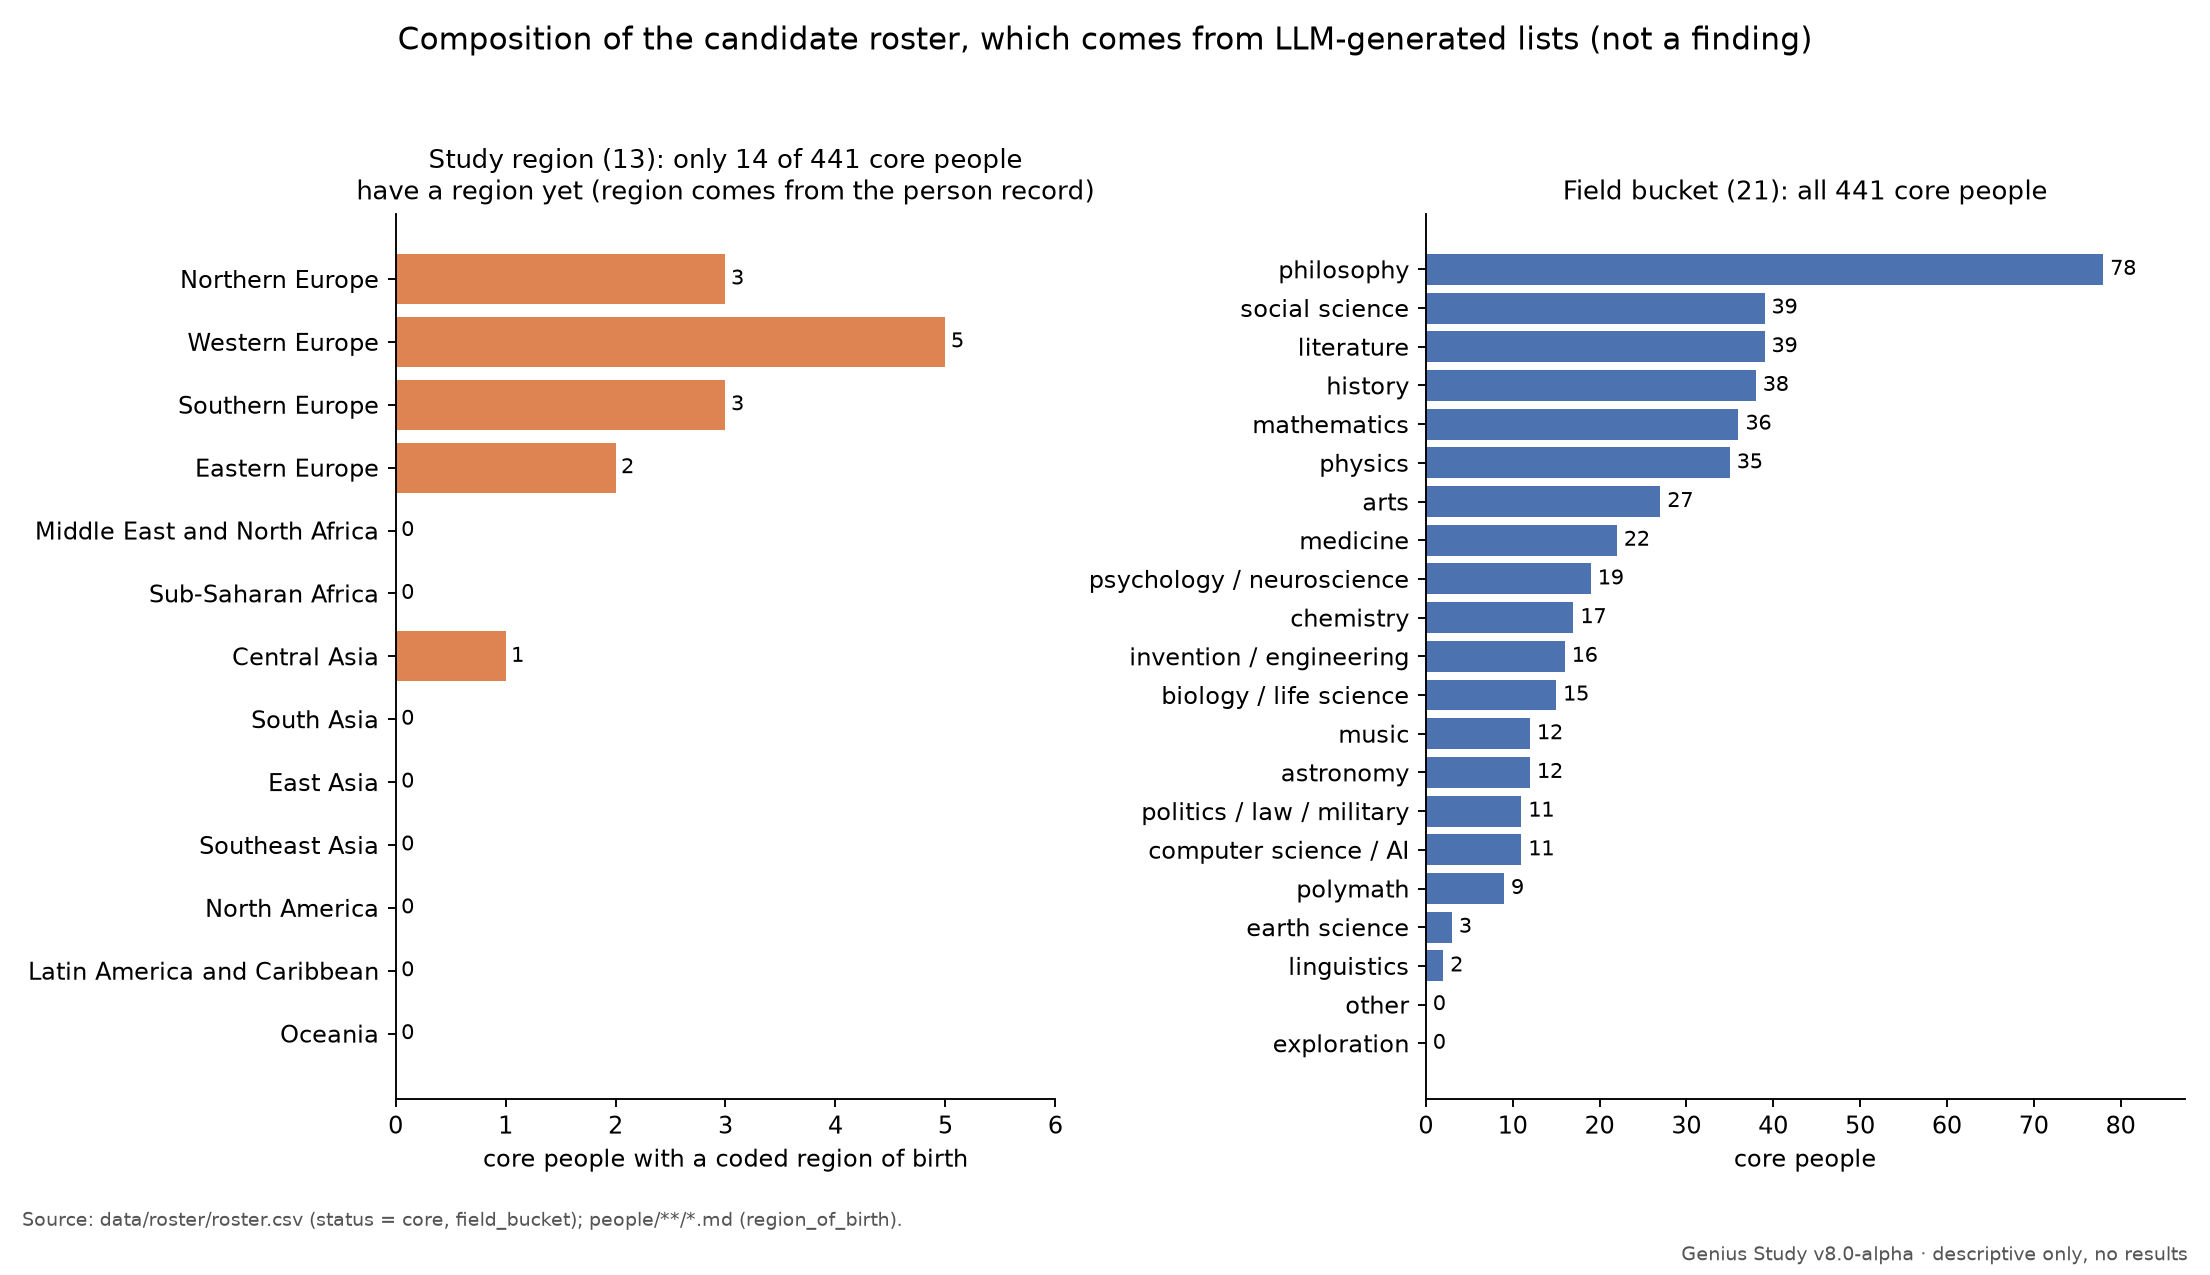
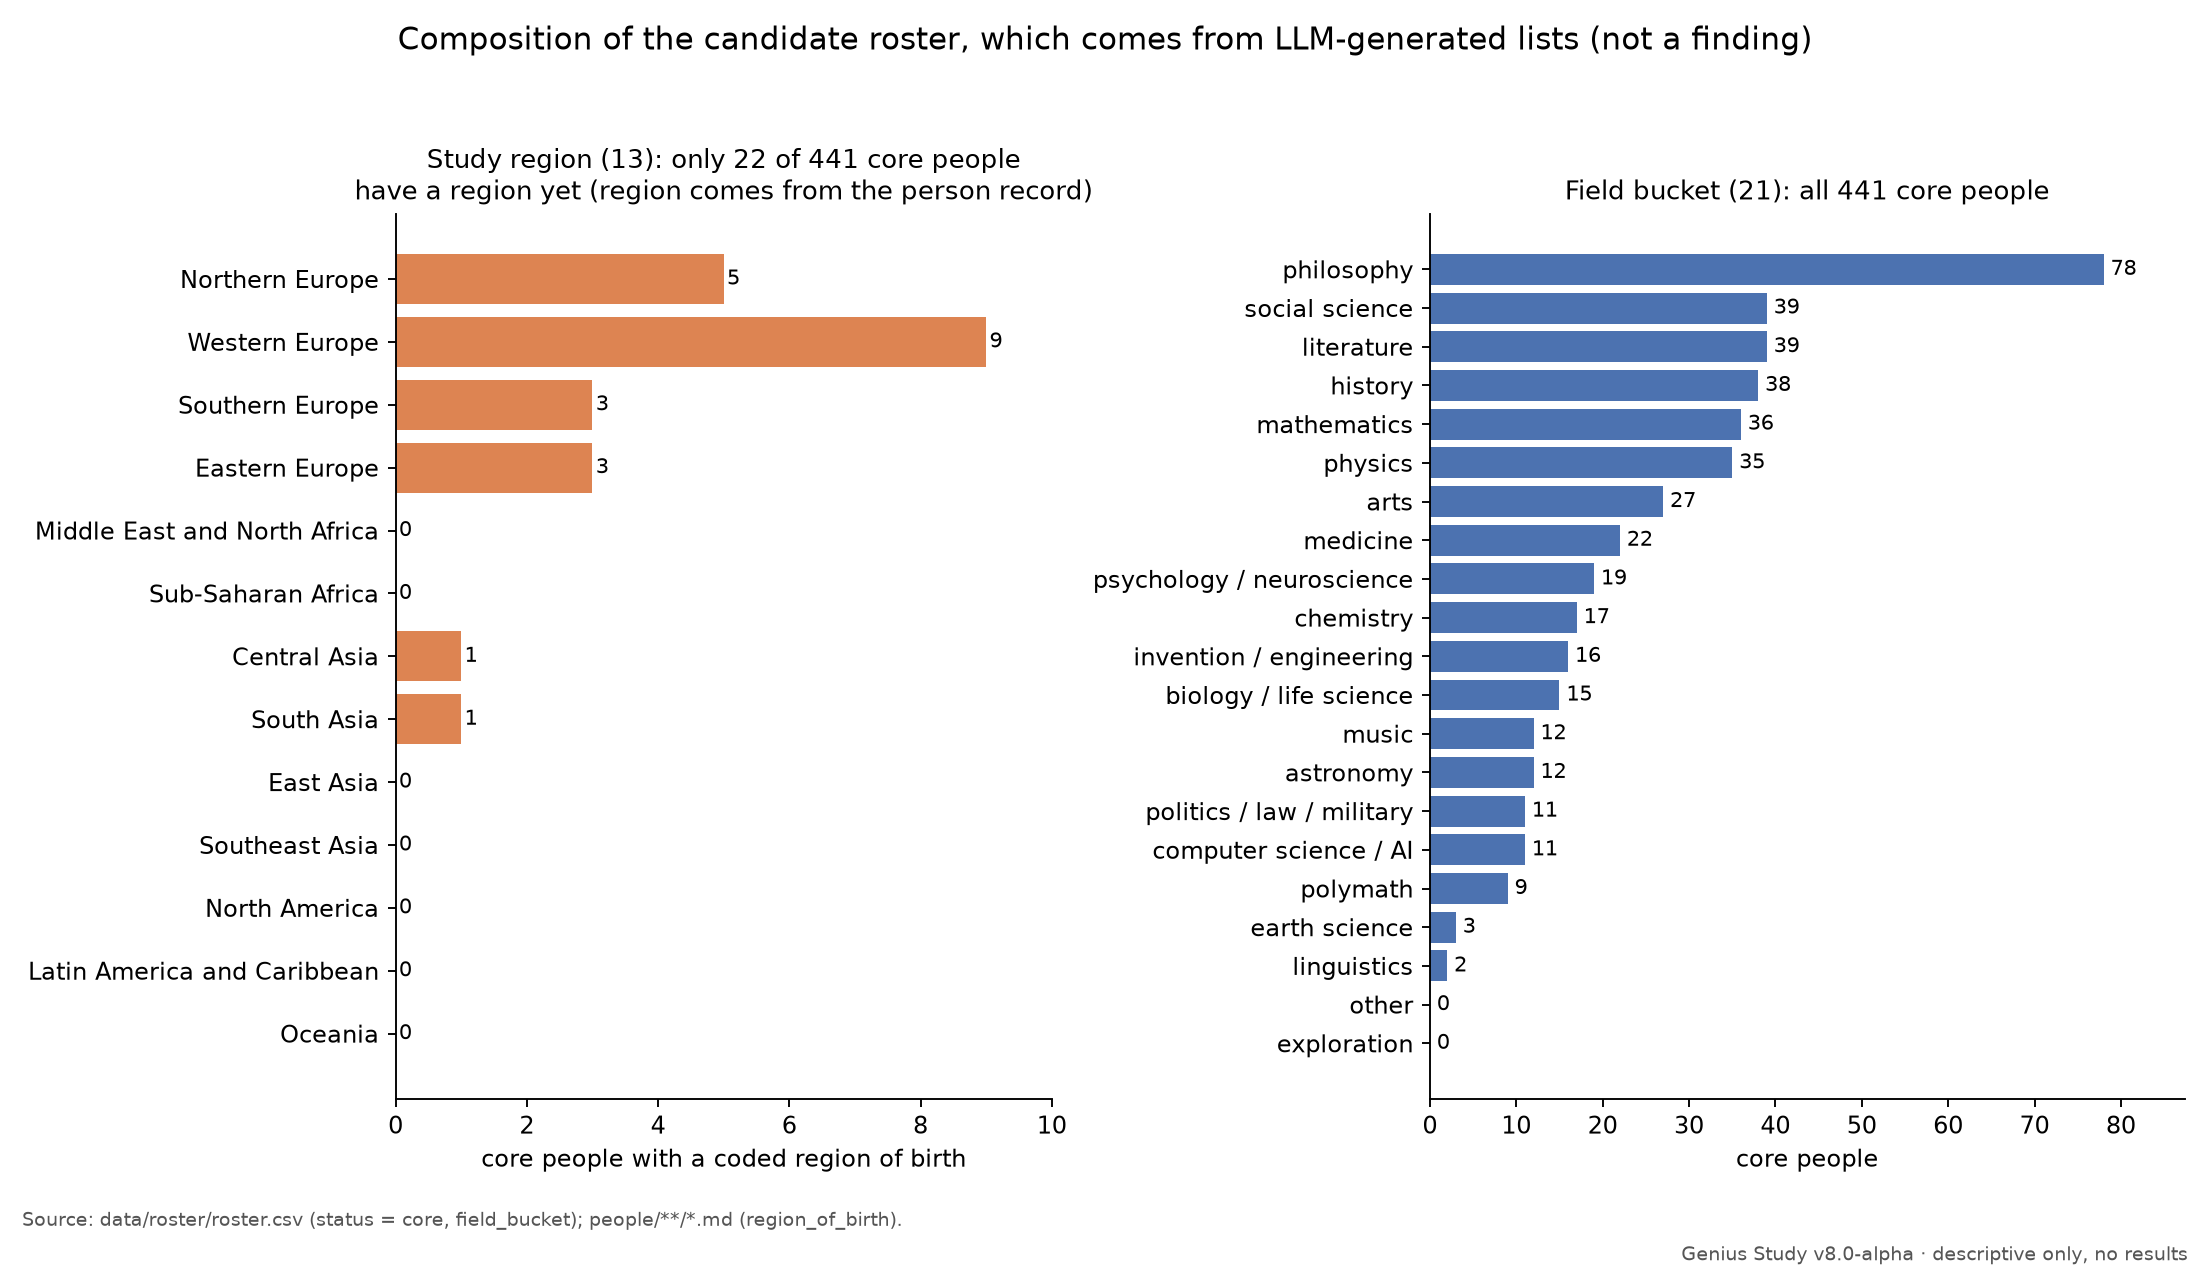
Batch 3: CHANGELOG entries and regenerated figures
CHANGELOG: one entry per batch-3 person (Bohr, Chandrasekhar, Heisenberg incl. the §7 fix, Lavoisier, Mendeleev, Pasteur, Dirac, Caroline Herschel). Figures regenerated: 22 core people with a region; 13 people on the B_cause/A_locus chart (Herschel has no B score, so she is not plotted). Progress table already at 22/441.

diff --git a/CHANGELOG.md b/CHANGELOG.md
@@ -113,6 +113,15 @@ Sourced drafts of the systems the first-pool people are most likely to be coded 
 ### People
 
 - **2026-10-02, batch 2 coded people** (commits `f9169c2` through `61e560e`): eight people—Einstein, Fermi, Schrödinger, Galileo, Kepler, Meitner, Marie Curie and Planck—were coded in the 1600–1950 physical-science pool.
+- **2026-10-02, batch 3 coded people** (commits `b918a04` through `377dff5`; all `draft — unreviewed`): eight more people in the 1600–1950 physical-science pool. Validators pass (22 person files); figures regenerated.
+  - **Niels Bohr** (`b918a04`, `people/b/bohr-niels.md`): primary_system BELOW_THRESHOLD (ATHE leading, AGNOS named). B, C and D 4 at 0.5 (scholarly reconstruction, Heilbron 2013); A and E BELOW_THRESHOLD; mid_basin BELOW_THRESHOLD. Left the church in April 1912 (1.0). The 1963 AIP interview with Margrethe Bohr carries a no-quote notice, so it is paraphrased.
+  - **Subrahmanyan Chandrasekhar** (`281fddb`, `people/c/chandrasekhar-subrahmanyan.md`): primary_system ATHE at 0.5, from his recorded AIP interview (1987). A 4 and B 4 at 0.5; C, D, E BELOW_THRESHOLD; mid_basin BELOW_THRESHOLD. Flag: no `basis` type fits recorded interview speech.
+  - **Werner Heisenberg** (`7df598d`, fix `1f3c4bf`, `people/h/heisenberg-werner.md`): primary_system PLATO at 0.7 from "Scientific Truth and Religious Truth" (CrossCurrents 24:4, 1975; the 1973 Guardini lecture). A 2, B 4 and D 2 at 0.7; C, E BELOW_THRESHOLD; mid_basin TODO (A = 2, no P4 branch). The follow-up fix capped the self-described relation 1.0 → 0.7 under CODING_GUIDE §7, because the text was read from a copy of the JSTOR PDF, not JSTOR itself.
+  - **Antoine Lavoisier** (`9b94a0f`, `people/l/lavoisier-antoine.md`): primary_system BELOW_THRESHOLD (CHRIST leading; DEISM considered). B 4 at 0.7 from the Traité (1789); A, C, D, E BELOW_THRESHOLD; mid_basin BELOW_THRESHOLD. His anticlerical 1791 manuscript for Talleyrand (Guillaume 1908) and the 1788 letter quoted by Grimaux point different ways.
+  - **Dmitri Mendeleev** (`cd7b442`, `people/m/mendeleev-dmitri.md`): primary_system BELOW_THRESHOLD (DEISM and CHRIST considered; ATHE rejected). B 4 at 0.7 from Zavetnye mysli (1903–1905) and the 1876 spiritism report; A, C, D, E BELOW_THRESHOLD; mid_basin BELOW_THRESHOLD. Self-described relation at 0.7 (religion, art and science as one triad).
+  - **Louis Pasteur** (`6176094`, `people/p/pasteur-louis.md`): primary_system BELOW_THRESHOLD (CHRIST leading; IDEAL stub; DEISM rejected; French spiritualism has no system file). B 4 and D 2 at 0.7 from the 1882 Académie française reception speech (print scan); A, C, E BELOW_THRESHOLD; mid_basin BELOW_THRESHOLD. Self-described relation 1.0.
+  - **Paul Dirac** (`130ece9`, `people/d/dirac-paul.md`): primary_system BELOW_THRESHOLD (ATHE candidate). B 4 at 0.5 from his working science; A, C, D, E BELOW_THRESHOLD; mid_basin BELOW_THRESHOLD. No statement in his own words could be checked: the May 1963 Scientific American article is access-restricted, the FSU scan of his 1976 Lindau notes is behind a bot challenge, and the 1927 Solvay remarks are Heisenberg's reconstruction.
+  - **Caroline Herschel** (`377dff5`, `people/h/herschel-caroline.md`): primary_system CHRIST at 0.5 from brief devotional phrases in three letters (1829, 1835) in the 1876 Memoir and Correspondence (page images checked). A 0 at 0.5; B, C, D, E BELOW_THRESHOLD; mid_basin BELOW_THRESHOLD.
 - **2026-10-02, James Clerk Maxwell** (`people/m/maxwell-james-clerk.md`, draft — unreviewed): new person record from his letters, essays and 1873 "Molecules" lecture (via Campbell and Garnett 1882 and the 1890 Scientific Papers), Britannica, MacTutor and Hutchinson. Primary system CHRIST (0.7). A_locus 0 and B_cause 3 (physics) at 1.0, so `mid_basin` is true under P4; C_ledger 1 and D_authority 2 at 0.7; E_scope TODO. Quotes checked word for word against the fetched texts.
 - **2026-10-02, Isaac Newton** (`people/n/newton-isaac.md`, draft — unreviewed): new person record from the General Scholium, Opticks Query 31, the Principia's Rules of Reasoning, two letters to Bentley and three private theological manuscripts (Newton Project), plus Britannica, MacTutor and two SEP entries. Primary system CHRIST (0.7), CLTHEI a close second. A_locus 1, B_cause 3 (natural philosophy) and E_scope 3 at 1.0, so `mid_basin` is true under P4; C_ledger 0 and D_authority 2 at 0.7. Quotes checked word for word against the fetched texts.
 - **2026-10-02, Thomas Aquinas** (`people/a/aquinas-thomas.md`, draft — unreviewed): new person record from thirteen questions of the Summa theologiae (1920 English Dominican translation, New Advent), Britannica (Chenu), SEP (Pasnau) and IEP (Brown). Primary system CLASS_THEISM (1.0). A_locus 1, B_cause 2, C_ledger 1, D_authority 1, E_scope 2, all at 1.0 from written profession. `mid_basin` UNKNOWN: P4 has no branch for B_cause = 2 at high certainty (flagged as an open question). Quotes checked word for word against the fetched texts.
